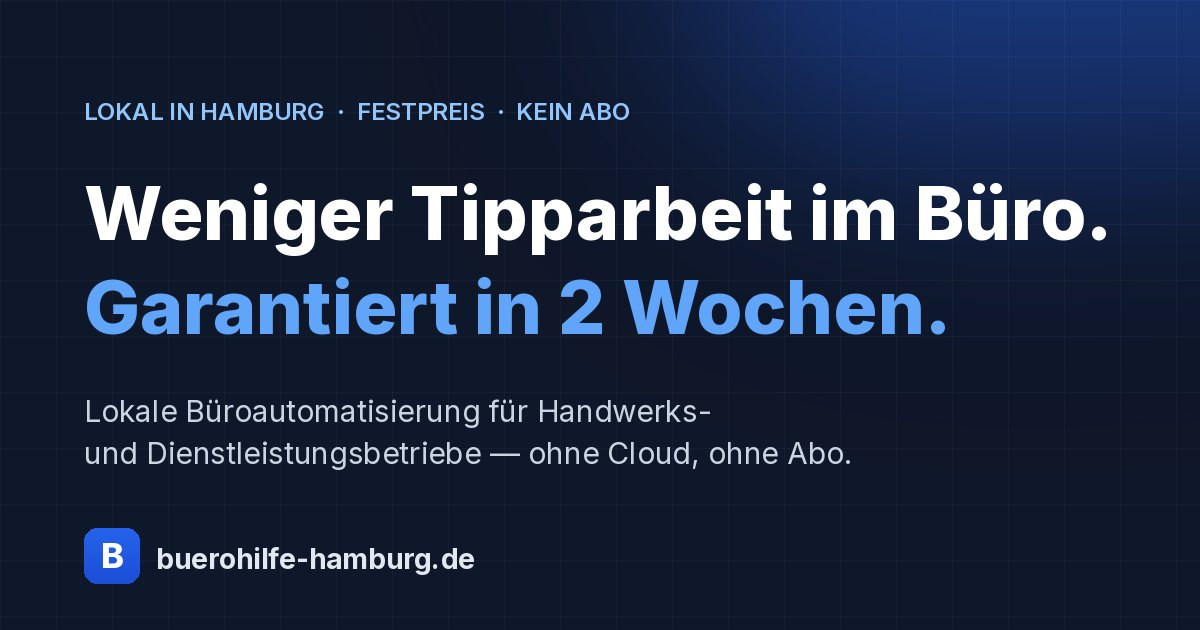
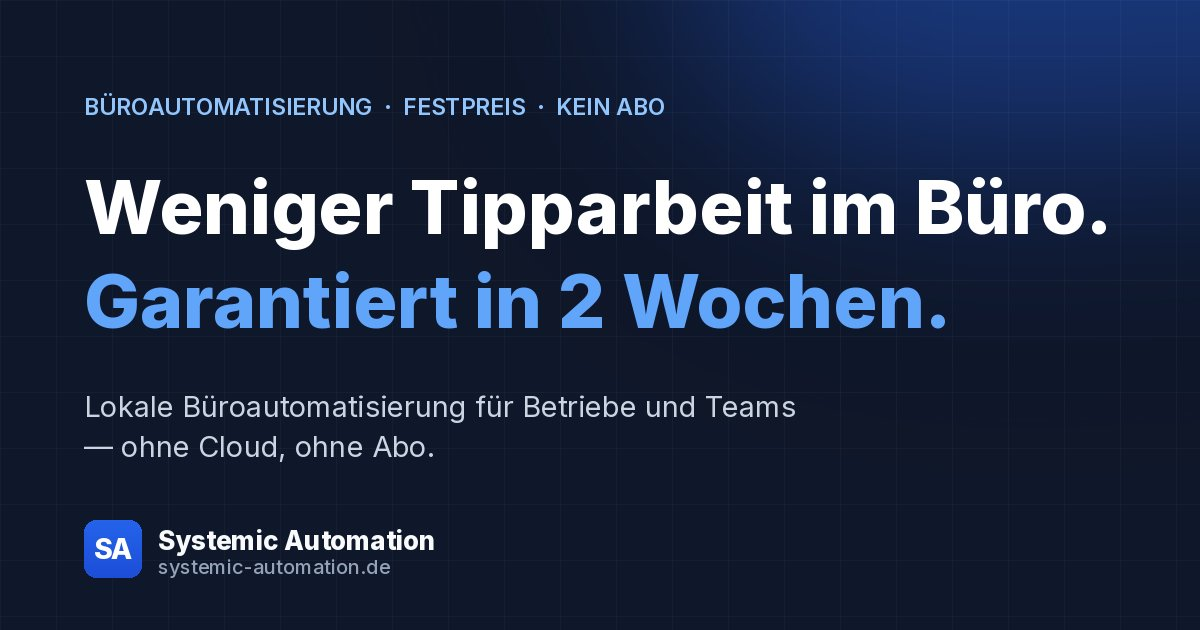
rebrand: Bürohilfe Hamburg -> Systemic Automation
Marke ueber Einzelunternehmen (Inhaber Emre Kuellueoglu bleibt rechtlich).
Domain-Ziel: systemic-automation.de (noch nicht live -> NICHT mergen).

- Name + Domain + Mail ueberall ersetzt (index, impressum, datenschutz,
  404, sitemap, robots, README)
- Brand-Mark "B" -> "SA" (font-size 12px, passt in 30px-Box)
- favicon.svg/.ico, apple-touch-icon, og-image.jpg neu generiert (SA-Branding)
- Positionierung breiter/B2B: Hamburg von Begrenzung -> Herkunft
  (eyebrow, hero-lead, trust, contact-fine, areaServed Deutschland+Hamburg)
- "Handwerksbetriebe" -> "Betriebe und Teams"
- Schema name/url/image/logo aktualisiert, founder bleibt Emre Kuellueoglu
- Datenschutz: Hosting bleibt Cloudflare, Stand unveraendert

diff --git a/index.html b/index.html
@@ -3,10 +3,10 @@
 <head>
 <meta charset="UTF-8" />
 <meta name="viewport" content="width=device-width, initial-scale=1.0" />
-<meta name="description" content="Bürohilfe Hamburg baut lokale Büroautomatisierung für kleine Betriebe: digitale PDF-Rechnungen auslesen, Excel-Dateien zusammenführen, E-Mails strukturieren." />
+<meta name="description" content="Systemic Automation baut lokale Büroautomatisierung für kleine Betriebe: digitale PDF-Rechnungen auslesen, Excel-Dateien zusammenführen, E-Mails strukturieren." />
 <meta name="theme-color" content="#0f172a" />
-<title>Bürohilfe Hamburg — Lokale Büroautomatisierung für kleine Betriebe</title>
-<link rel="canonical" href="https://buerohilfe-hamburg.de/" />
+<title>Systemic Automation — Lokale Büroautomatisierung für kleine Betriebe</title>
+<link rel="canonical" href="https://systemic-automation.de/" />
 <link rel="icon" type="image/svg+xml" href="favicon.svg" />
 <link rel="alternate icon" href="favicon.ico" />
 <link rel="apple-touch-icon" href="apple-touch-icon.png" />
@@ -15,33 +15,33 @@
 <link rel="preload" href="fonts/inter-latin-var.woff2" as="font" type="font/woff2" crossorigin />
 
 <!-- Open Graph -->
-<meta property="og:title" content="Bürohilfe Hamburg — Lokale Büroautomatisierung" />
-<meta property="og:description" content="Kleine lokale Tools für Hamburger Handwerksbetriebe: PDF-Rechnungen auslesen, Excel-Listen pflegen, E-Mails strukturieren. Ohne Cloud, ohne Abo, Festpreis ab 99 €." />
-<meta property="og:image" content="https://buerohilfe-hamburg.de/og-image.jpg" />
-<meta property="og:image:alt" content="Bürohilfe Hamburg — lokale Büroautomatisierung für kleine Betriebe" />
-<meta property="og:url" content="https://buerohilfe-hamburg.de/" />
+<meta property="og:title" content="Systemic Automation — Lokale Büroautomatisierung" />
+<meta property="og:description" content="Kleine lokale Tools für Betriebe und Teams: PDF-Rechnungen auslesen, Excel-Listen pflegen, E-Mails strukturieren. Ohne Cloud, ohne Abo, Festpreis ab 99 €." />
+<meta property="og:image" content="https://systemic-automation.de/og-image.jpg" />
+<meta property="og:image:alt" content="Systemic Automation — lokale Büroautomatisierung für kleine Betriebe" />
+<meta property="og:url" content="https://systemic-automation.de/" />
 <meta property="og:type" content="website" />
 <meta property="og:locale" content="de_DE" />
-<meta property="og:site_name" content="Bürohilfe Hamburg" />
+<meta property="og:site_name" content="Systemic Automation" />
 
 <!-- Twitter -->
 <meta name="twitter:card" content="summary_large_image" />
-<meta name="twitter:title" content="Bürohilfe Hamburg — Lokale Büroautomatisierung" />
+<meta name="twitter:title" content="Systemic Automation — Lokale Büroautomatisierung" />
 <meta name="twitter:description" content="Weniger Tipparbeit im Büro. Lokal, ohne Abo, Festpreis ab 99 €." />
-<meta name="twitter:image" content="https://buerohilfe-hamburg.de/og-image.jpg" />
+<meta name="twitter:image" content="https://systemic-automation.de/og-image.jpg" />
 
 <!-- LocalBusiness / ProfessionalService Structured Data -->
 <script type="application/ld+json">
 {
   "@context": "https://schema.org",
   "@type": ["ProfessionalService", "LocalBusiness"],
-  "name": "Bürohilfe Hamburg",
-  "description": "Lokale Büroautomatisierung für kleine Handwerks- und Dienstleistungsbetriebe in Hamburg: PDF-Rechnungen auslesen, Excel-Konsolidierung, E-Mail-Protokolle. Festpreise, ohne Cloud, ohne Abo.",
-  "url": "https://buerohilfe-hamburg.de/",
-  "image": "https://buerohilfe-hamburg.de/og-image.jpg",
+  "name": "Systemic Automation",
+  "description": "Lokale Büroautomatisierung für kleine und mittlere Betriebe: PDF-Rechnungen auslesen, Excel-Konsolidierung, E-Mail-Protokolle. Festpreise, ohne Cloud, ohne Abo. Aus Hamburg, bundesweit umsetzbar.",
+  "url": "https://systemic-automation.de/",
+  "image": "https://systemic-automation.de/og-image.jpg",
   "logo": {
     "@type": "ImageObject",
-    "url": "https://buerohilfe-hamburg.de/favicon.svg",
+    "url": "https://systemic-automation.de/favicon.svg",
     "width": 64,
     "height": 64
   },
@@ -51,7 +51,7 @@
     "jobTitle": "Inhaber"
   },
   "telephone": "[phone redacted]",
-  "email": "[email redacted]",
+  "email": "[email redacted]",
   "priceRange": "€€",
   "currenciesAccepted": "EUR",
   "paymentAccepted": "Rechnung, Überweisung",
@@ -64,8 +64,8 @@
     }
   ],
   "areaServed": [
-    {"@type": "City", "name": "Hamburg"},
-    {"@type": "AdministrativeArea", "name": "Hamburg und Umland (50 km)"}
+    {"@type": "Country", "name": "Deutschland"},
+    {"@type": "City", "name": "Hamburg"}
   ],
   "knowsAbout": [
     "Büroautomatisierung",
@@ -77,7 +77,7 @@
   ],
   "hasOfferCatalog": {
     "@type": "OfferCatalog",
-    "name": "Leistungen Bürohilfe Hamburg",
+    "name": "Leistungen Systemic Automation",
     "itemListElement": [
       {
         "@type": "Offer",
@@ -128,7 +128,7 @@
   "contactPoint": {
     "@type": "ContactPoint",
     "telephone": "[phone redacted]",
-    "email": "[email redacted]",
+    "email": "[email redacted]",
     "contactType": "customer service",
     "areaServed": "DE",
     "availableLanguage": "German"
@@ -299,7 +299,7 @@
     width: 30px; height: 30px; border-radius: 8px;
     background: linear-gradient(135deg, var(--accent), var(--accent-strong));
     display: grid; place-items: center; color: #fff;
-    font-weight: 800; font-size: 15px; flex: none;
+    font-weight: 800; font-size: 12px; letter-spacing: -0.02em; flex: none;
     box-shadow: 0 2px 8px rgba(37,99,235,0.35);
   }
   .nav-links { display: flex; align-items: center; gap: 28px; }
@@ -795,8 +795,8 @@
 <header class="topbar">
   <div class="container nav">
     <a class="brand" href="/">
-      <span class="brand-mark">B</span>
-      Bürohilfe Hamburg
+      <span class="brand-mark">SA</span>
+      Systemic Automation
     </a>
     <nav class="nav-menu-links" aria-label="Hauptnavigation">
       <div class="nav-links">
@@ -820,9 +820,9 @@
   <div class="container">
     <div class="hero-grid">
       <div>
-        <span class="hero-eyebrow reveal-up d1"><span class="dot"></span> Lokal in Hamburg · Festpreis · Kein Abo</span>
+        <span class="hero-eyebrow reveal-up d1"><span class="dot"></span> Büroautomatisierung · Festpreis · Kein Abo</span>
         <h1 class="reveal-up d1">Weniger Tipparbeit im Büro.<br><span class="accent">Garantiert in 2 Wochen.</span></h1>
-        <p class="hero-lead reveal-up d2">Ich baue kleine, lokale Automatisierungen für Hamburger Handwerks- und Dienstleistungsbetriebe — damit Rechnungen, Listen und Mails sich nicht mehr von Hand abtippen lassen.</p>
+        <p class="hero-lead reveal-up d2">Ich baue kleine, lokale Automatisierungen für Betriebe und Teams — damit Rechnungen, Listen und Mails sich nicht mehr von Hand abtippen lassen.</p>
         <ul class="hero-bullets reveal-up d3">
           <li><span class="check">✓</span> PDF-Rechnungen automatisch in Excel-Listen auslesen</li>
           <li><span class="check">✓</span> Daten bleiben auf eurem Rechner — keine Cloud-Pflicht</li>
@@ -849,7 +849,7 @@
       <div class="mockup reveal-up d3" aria-hidden="true">
         <div class="mockup-bar">
           <span class="dots"><i></i><i></i><i></i></span>
-          <span class="title">Bürohilfe · Rechnungslauf</span>
+          <span class="title">Systemic Automation · Rechnungslauf</span>
         </div>
         <div class="mockup-body">
           <div class="mockup-h">
@@ -894,7 +894,7 @@
     <div class="section-head">
       <span class="kicker">So fängt es an</span>
       <h2>Der typische erste Workflow</h2>
-      <p>Funktioniert für die meisten Handwerksbetriebe ab dem ersten Tag — als Festpreis-Pilot, lokal auf eurem Rechner.</p>
+      <p>Funktioniert für die meisten Betriebe ab dem ersten Tag — als Festpreis-Pilot, lokal auf eurem Rechner.</p>
     </div>
 
     <div class="workflow-feature">
@@ -1017,7 +1017,7 @@
           <li><span class="ck">✓</span> Mehrere Quellen, größere Workflows</li>
           <li><span class="ck">✓</span> Auf Wunsch CSV-Export (DATEV/Lexware)</li>
         </ul>
-        <a href="mailto:[email redacted]" class="btn btn-secondary">Anfrage stellen</a>
+        <a href="mailto:[email redacted]" class="btn btn-secondary">Anfrage stellen</a>
       </div>
     </div>
   </div>
@@ -1061,7 +1061,7 @@
       </div>
       <div class="trust-item">
         <span class="trust-ico"><svg width="22" height="22" viewBox="0 0 24 24" fill="none" stroke="currentColor" stroke-width="2"><path d="M21 10c0 7-9 12-9 12s-9-5-9-12a9 9 0 0 1 18 0z"/><circle cx="12" cy="10" r="3"/></svg></span>
-        <div><h4>Lokal in Hamburg</h4><p>Vor-Ort-Termine in Hamburg und Umgebung möglich. Laufender Support per Telefon und E-Mail.</p></div>
+        <div><h4>Persönlich erreichbar</h4><p>Vor-Ort-Termine im Raum Hamburg, bundesweit per Telefon, E-Mail und Remote-Zugriff.</p></div>
       </div>
     </div>
   </div>
@@ -1074,7 +1074,7 @@
       <div class="about-id">
         <span class="about-avatar" aria-hidden="true">EK</span>
         <b>Emre Küllüoğlu</b>
-        <span class="about-role">Inhaber, Bürohilfe Hamburg</span>
+        <span class="about-role">Inhaber, Systemic Automation</span>
       </div>
       <div class="about-text">
         <span class="kicker">Wer ist da am Telefon?</span>
@@ -1154,9 +1154,9 @@
           <svg width="17" height="17" viewBox="0 0 24 24" fill="currentColor" aria-hidden="true"><path d="M17.472 14.382c-.297-.149-1.758-.867-2.03-.967-.273-.099-.471-.148-.67.15-.197.297-.767.966-.94 1.164-.173.199-.347.223-.644.075-.297-.15-1.255-.463-2.39-1.475-.883-.788-1.48-1.761-1.653-2.059-.173-.297-.018-.458.13-.606.134-.133.297-.347.446-.52.149-.174.198-.298.298-.497.099-.198.05-.371-.025-.52-.075-.149-.669-1.612-.916-2.207-.242-.579-.487-.5-.669-.51-.173-.008-.371-.01-.57-.01-.198 0-.52.074-.792.372-.272.297-1.04 1.016-1.04 2.479 0 1.462 1.065 2.875 1.213 3.074.149.198 2.096 3.2 5.077 4.487.709.306 1.262.489 1.694.625.712.227 1.36.195 1.871.118.571-.085 1.758-.719 2.006-1.413.248-.694.248-1.289.173-1.413-.074-.124-.272-.198-.57-.347m-5.421 7.403h-.004a9.87 9.87 0 0 1-5.031-1.378l-.361-.214-3.741.982.998-3.648-.235-.374a9.86 9.86 0 0 1-1.51-5.26c.001-5.45 4.436-9.884 9.888-9.884 2.64 0 5.122 1.03 6.988 2.898a9.825 9.825 0 0 1 2.893 6.994c-.003 5.45-4.437 9.884-9.885 9.884m8.413-18.297A11.815 11.815 0 0 0 12.05 0C5.495 0 .16 5.335.157 11.892c0 2.096.547 4.142 1.588 5.945L.057 24l6.305-1.654a11.882 11.882 0 0 0 5.683 1.448h.005c6.554 0 11.89-5.335 11.893-11.893a11.821 11.821 0 0 0-3.48-8.413Z"/></svg>
           WhatsApp
         </a>
-        <a class="btn btn-ghost-light btn-lg" href="mailto:[email redacted]">[email redacted]</a>
+        <a class="btn btn-ghost-light btn-lg" href="mailto:[email redacted]">[email redacted]</a>
       </div>
-      <p class="contact-fine">Mo–Fr 09:00–17:00 Uhr · Vor-Ort-Termine in Hamburg nach Absprache.</p>
+      <p class="contact-fine">Mo–Fr 09:00–17:00 Uhr · Vor-Ort im Raum Hamburg, sonst bundesweit per Remote.</p>
     </div>
   </div>
 </section>
@@ -1166,7 +1166,7 @@
 <footer>
   <div class="container">
     <div class="footer-inner">
-      <div class="footer-brand"><span class="brand-mark">B</span> Bürohilfe Hamburg</div>
+      <div class="footer-brand"><span class="brand-mark">SA</span> Systemic Automation</div>
       <div class="footer-contact">
         <a href="tel:[phone redacted]">
           <svg width="15" height="15" viewBox="0 0 24 24" fill="none" stroke="currentColor" stroke-width="2.2" stroke-linecap="round" stroke-linejoin="round"><path d="M22 16.92v3a2 2 0 0 1-2.18 2 19.79 19.79 0 0 1-8.63-3.07 19.5 19.5 0 0 1-6-6 19.79 19.79 0 0 1-3.07-8.67A2 2 0 0 1 4.11 2h3a2 2 0 0 1 2 1.72c.13.96.36 1.9.7 2.81a2 2 0 0 1-.45 2.11L8.09 9.91a16 16 0 0 0 6 6l1.27-1.27a2 2 0 0 1 2.11-.45c.91.34 1.85.57 2.81.7A2 2 0 0 1 22 16.92z"/></svg>
@@ -1178,9 +1178,9 @@
           WhatsApp
         </a>
         <span class="sep">·</span>
-        <a href="mailto:[email redacted]">
+        <a href="mailto:[email redacted]">
           <svg width="15" height="15" viewBox="0 0 24 24" fill="none" stroke="currentColor" stroke-width="2.2" stroke-linecap="round" stroke-linejoin="round"><rect x="2" y="4" width="20" height="16" rx="2"/><path d="m22 7-10 5L2 7"/></svg>
-          [email redacted]
+          [email redacted]
         </a>
       </div>
     </div>
@@ -1189,7 +1189,7 @@
         <a href="impressum.html">Impressum</a>
         <a href="datenschutz.html">Datenschutz</a>
       </nav>
-      <span>© 2026 Bürohilfe Hamburg · Lokal in Hamburg</span>
+      <span>© 2026 Systemic Automation · Inhaber Emre Küllüoğlu</span>
     </div>
   </div>
 </footer>

diff --git a/datenschutz.html b/datenschutz.html
@@ -5,7 +5,7 @@
 <meta name="viewport" content="width=device-width, initial-scale=1.0" />
 <meta name="robots" content="noindex" />
 <meta name="theme-color" content="#0f172a" />
-<title>Datenschutz — Bürohilfe Hamburg</title>
+<title>Datenschutz — Systemic Automation</title>
 <link rel="icon" type="image/svg+xml" href="favicon.svg" />
 <link rel="alternate icon" href="favicon.ico" />
 <link rel="apple-touch-icon" href="apple-touch-icon.png" />
@@ -58,7 +58,7 @@
     width: 30px; height: 30px; border-radius: 8px;
     background: linear-gradient(135deg, var(--accent), var(--accent-strong));
     display: grid; place-items: center; color: #fff;
-    font-weight: 800; font-size: 15px; flex: none;
+    font-weight: 800; font-size: 12px; letter-spacing: -0.02em; flex: none;
   }
   .back { font-size: 15px; font-weight: 500; text-decoration: none; color: var(--ink-soft); }
   .back:hover { color: var(--ink); }
@@ -90,7 +90,7 @@
 <body>
   <header class="topbar">
     <div class="nav">
-      <a class="brand" href="index.html"><span class="brand-mark">B</span> Bürohilfe Hamburg</a>
+      <a class="brand" href="index.html"><span class="brand-mark">SA</span> Systemic Automation</a>
       <a class="back" href="index.html">← Zurück zur Startseite</a>
     </div>
   </header>
@@ -102,12 +102,12 @@
       <h2>1. Verantwortlicher für die Datenverarbeitung</h2>
       <p>Verantwortlich für die Datenverarbeitung auf dieser Website im Sinne der Datenschutz-Grundverordnung (DSGVO) ist:</p>
       <p>
-        Bürohilfe Hamburg<br />
+        Systemic Automation<br />
         Inhaber: Emre Küllüoğlu<br />
         Steinbeker Grenzdamm 14r<br />
         22115 Hamburg<br />
         Telefon: <a href="tel:[phone redacted]">[phone redacted]</a><br />
-        E-Mail: <a href="mailto:[email redacted]">[email redacted]</a>
+        E-Mail: <a href="mailto:[email redacted]">[email redacted]</a>
       </p>
 
       <h2>2. Grundsatz</h2>
@@ -168,7 +168,7 @@
   </main>
 
   <footer>
-    <p>Bürohilfe Hamburg · <a href="impressum.html">Impressum</a></p>
+    <p>Systemic Automation · <a href="impressum.html">Impressum</a></p>
   </footer>
 </body>
 </html>

diff --git a/impressum.html b/impressum.html
@@ -5,7 +5,7 @@
 <meta name="viewport" content="width=device-width, initial-scale=1.0" />
 <meta name="robots" content="noindex" />
 <meta name="theme-color" content="#0f172a" />
-<title>Impressum — Bürohilfe Hamburg</title>
+<title>Impressum — Systemic Automation</title>
 <link rel="icon" type="image/svg+xml" href="favicon.svg" />
 <link rel="alternate icon" href="favicon.ico" />
 <link rel="apple-touch-icon" href="apple-touch-icon.png" />
@@ -58,7 +58,7 @@
     width: 30px; height: 30px; border-radius: 8px;
     background: linear-gradient(135deg, var(--accent), var(--accent-strong));
     display: grid; place-items: center; color: #fff;
-    font-weight: 800; font-size: 15px; flex: none;
+    font-weight: 800; font-size: 12px; letter-spacing: -0.02em; flex: none;
   }
   .back { font-size: 15px; font-weight: 500; text-decoration: none; color: var(--ink-soft); }
   .back:hover { color: var(--ink); }
@@ -89,7 +89,7 @@
 <body>
   <header class="topbar">
     <div class="nav">
-      <a class="brand" href="index.html"><span class="brand-mark">B</span> Bürohilfe Hamburg</a>
+      <a class="brand" href="index.html"><span class="brand-mark">SA</span> Systemic Automation</a>
       <a class="back" href="index.html">← Zurück zur Startseite</a>
     </div>
   </header>
@@ -100,7 +100,7 @@
     <section class="box">
       <h2>Angaben gemäß § 5 DDG</h2>
       <p>
-        Bürohilfe Hamburg<br />
+        Systemic Automation<br />
         Inhaber: Emre Küllüoğlu<br />
         Steinbeker Grenzdamm 14r<br />
         22115 Hamburg
@@ -108,7 +108,7 @@
 
       <h2>Kontakt</h2>
       <p>
-        E-Mail: <a href="mailto:[email redacted]">[email redacted]</a><br />
+        E-Mail: <a href="mailto:[email redacted]">[email redacted]</a><br />
         Telefon: <a href="tel:[phone redacted]">[phone redacted]</a>
       </p>
 
@@ -127,7 +127,7 @@
   </main>
 
   <footer>
-    <p>Bürohilfe Hamburg · <a href="datenschutz.html">Datenschutz</a></p>
+    <p>Systemic Automation · <a href="datenschutz.html">Datenschutz</a></p>
   </footer>
 </body>
 </html>

diff --git a/404.html b/404.html
@@ -5,7 +5,7 @@
 <meta name="viewport" content="width=device-width, initial-scale=1.0" />
 <meta name="robots" content="noindex" />
 <meta name="theme-color" content="#0f172a" />
-<title>Seite nicht gefunden — Bürohilfe Hamburg</title>
+<title>Seite nicht gefunden — Systemic Automation</title>
 <link rel="icon" type="image/svg+xml" href="/favicon.svg" />
 <link rel="alternate icon" href="/favicon.ico" />
 <style>

diff --git a/README.md b/README.md
@@ -1,5 +1,6 @@
-# buerohilfe-hamburg
+# systemic-automation
 
-Statische Website fuer Buerohilfe Hamburg. Netlify deployt den Branch `main`.
+Statische Website für Systemic Automation (Inhaber Emre Küllüoğlu).
+Cloudflare Pages deployt den Branch `main` via GitHub Actions.
 
-Letzter Auto-Deploy-Test: 2026-05-23.
+Domain: systemic-automation.de (vormals buerohilfe-hamburg.de).